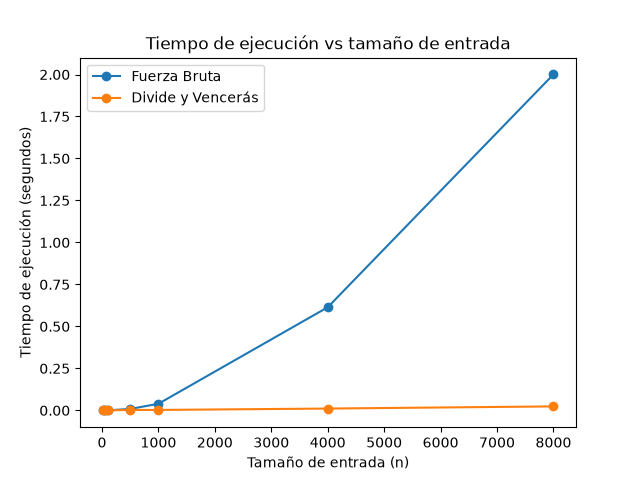
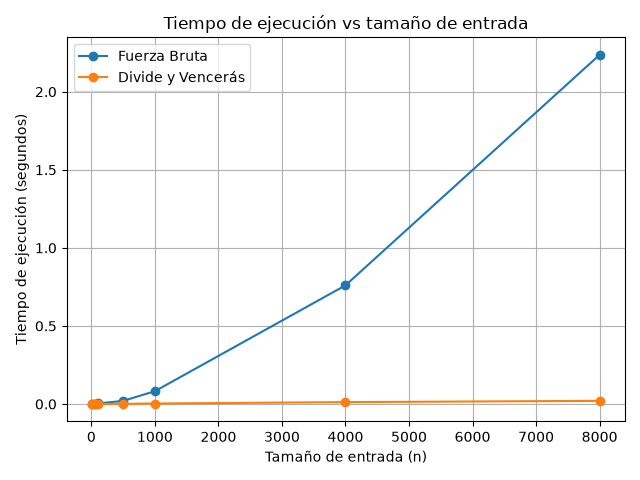
Reestructura el manejo de las rutas de los archivos para guardar gráficos en medicion.py

diff --git a/laboratorios/lab2-divide-y-venceras/medicion.py b/laboratorios/lab2-divide-y-venceras/medicion.py
@@ -1,5 +1,6 @@
 import random
 import time
+from pathlib import Path
 
 import matplotlib.pyplot as plt
 
@@ -42,6 +43,13 @@ plt.title("Tiempo de ejecución vs tamaño de entrada")
 plt.xlabel("Tamaño de entrada (n)")
 plt.ylabel("Tiempo de ejecución (segundos)")
 plt.legend()
+plt.grid(True)
+plt.tight_layout()
 
-plt.savefig("./laboratorios/lab2-divide-y-venceras/graficas/tiempo_vs_n.png")
+ruta_graficas = Path(__file__).resolve().parent / "graficas"
+ruta_graficas.mkdir(exist_ok=True)
+
+ruta_grafica = ruta_graficas / "tiempo_vs_n.png"
+
+plt.savefig(ruta_grafica)
 plt.show()
